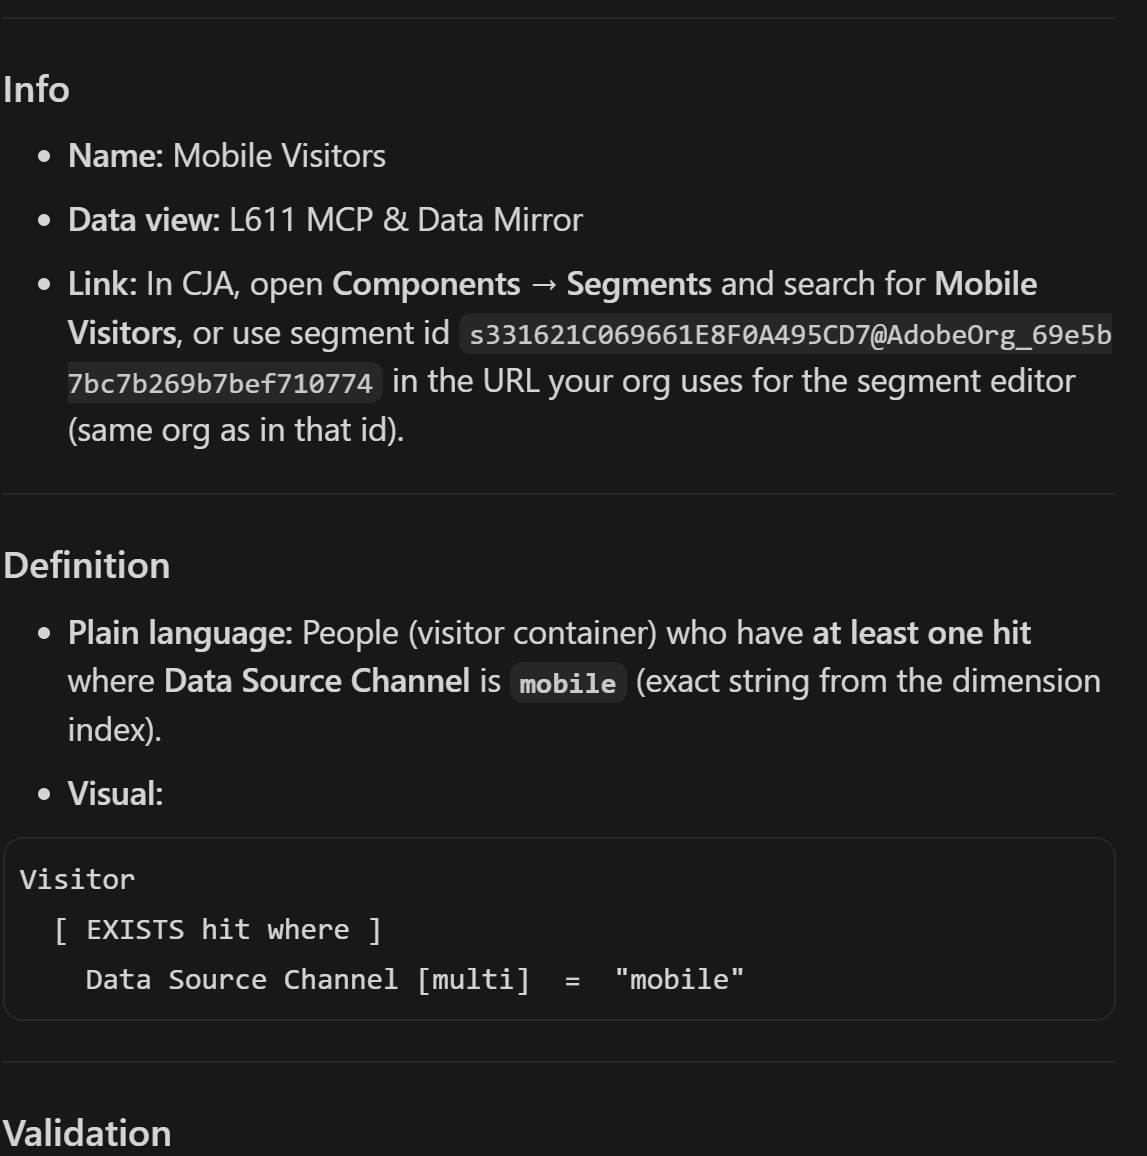
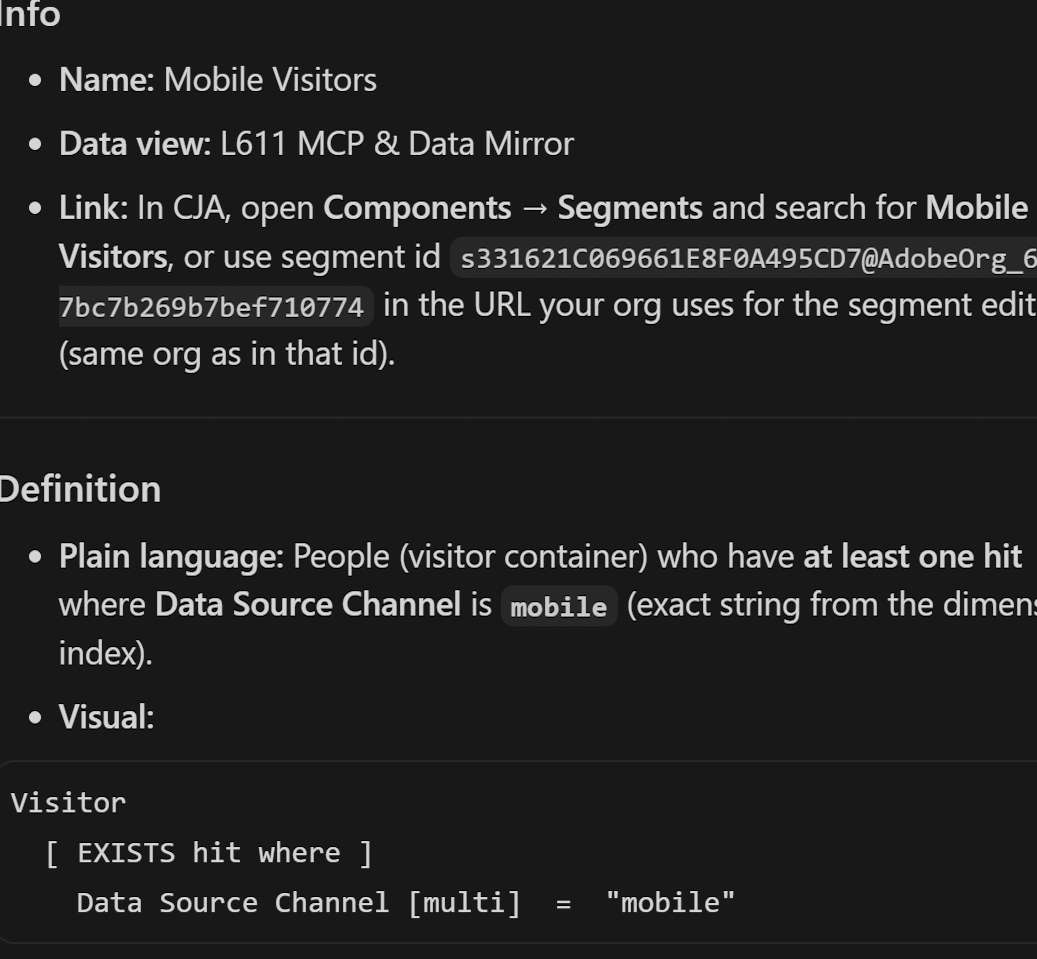
Update README and lesson 3 assets (screenshots).
Made-with: Cursor

diff --git a/README.md b/README.md
@@ -102,7 +102,7 @@ This should process quickly, taking only a few seconds. Instead of clicking thro
 
 <img src="assets\setup\Screenshot 2026-04-03 171218.png">
 
-3. Submit this prompt to open web authentication for CJA.
+2. Submit this prompt to open web authentication for CJA.
 
 ```
 Authenticate to CJA using mcp_auth.
@@ -112,11 +112,11 @@ As before, this should only take a few seconds. Cursor will hopefully make a cal
 
 <img width="478" height="207" src="/assets/setup/Screenshot 2026-04-03 145833.png" />
 
-4. On web auth, select *Experience Showcase* (if asked) and click OK.
+3. On web auth, select *Experience Showcase* (if asked) and click OK.
 
 <img src="assets\setup\Screenshot 2026-04-20 095100.png">
 
-5. On the following screen, click *Allow access*:
+4. On the following screen, click *Allow access*:
 
 <img width="415" height="581" src="assets/setup/Screenshot 2026-04-03 145533.png" />
 
@@ -557,9 +557,11 @@ Make a simple CJA project.
 
 <img width="786" height="199" src="assets/lesson-2/Screenshot 2026-04-03 173214.png" />
 
-> **Note:** This uses the `project builder` skill. A skill is used by the AI based on its headers (or you may invoke it explicitly). In our Cursor environment, if we use phrases like *make/build a CJA project* or reference `@cja-project-builder`, the agent will follow the skill to address the prompt.
+> **Note:** This uses the *project builder* skill. A skill is used by the AI based on its headers (or you may invoke it explicitly). In our Cursor environment, if we use phrases like *make/build a CJA project* or reference `@cja-project-builder`, the agent will follow the skill to address the prompt.
 
 The skill provides a basic project definition to the LLM, which creates the project and return its link.
+
+[Sample CJA project](https://experience.adobe.com/#/@experienceshowcase/platform/analytics/#/workspace/edit/69e567f7e0f5e2045efb2c09)
 
 4. Ask a data question:
 
@@ -583,6 +585,8 @@ Save this in a project and give me the link.
 
 <img width="1074" height="565" src="assets/lesson-2/Screenshot 2026-04-03 170356.png" />
 
+[Sample CJA result](https://experience.adobe.com/#/@experienceshowcase/platform/analytics/#/workspace/edit/69e5682d653dbd2327b0eade)
+
 6. Try a more interesting CJA project:
 
 ```
@@ -592,6 +596,8 @@ Create an e-commerce performance dashboard for the Luma retail data. Show revenu
 The agent responds with a proposed structure and builds it. It uses context from your skills, chat, common reporting and ecommerce knowledge, and existing components in CJA. Panels, visualizations, dimensions, metrics are all driven through that lens.
 
 Hopefully, your result takes only a minute or two. The timing and result will vary with AI. If something looks wrong or you want a change, you would continue the conversation. Even skills require iterations to reach your exact goal, sometimes.
+
+[Sample CJA result](https://experience.adobe.com/#/@experienceshowcase/platform/analytics/#/workspace/edit/69e568bee0f5e2045efb2c13)
 
 > **Tip:** Be specific in your prompts. Whenever possible, use clear time ranges ("last 30 days"), metric names ("orders", "revenue"), and dimensions ("product category") when you know them.
 
@@ -607,7 +613,7 @@ Build a survey for the top 9 dimensions in L611.
 
 Frequently supporting new customers and unknown data views, I wanted a quick survey of the data environment. Doing this for many dimensions becomes tedious or impossible to recreate. I have successfully run this type of skill for up to 60 dimensions. On the CJA definition gets "large", it is harder to manage in a single skill / agent definition.
 
-Here is a small [sample](https://experience.adobe.com/#/@experienceshowcase/platform/analytics/#/workspace/edit/69e57488c9a2b873047b2591) built to study the top 8 dimensions. Some have no data in the recent date range, so they are listed in a separate panel at the bottom.
+Here is a [sample](https://experience.adobe.com/#/@experienceshowcase/platform/analytics/#/workspace/edit/69e57488c9a2b873047b2591) built to study the top 8 dimensions. Some have no data in the recent date range, so they are listed in a separate panel at the bottom.
 
 <img src="assets\lesson-2\Screenshot 2026-04-20 113101.png">
 
@@ -642,11 +648,11 @@ By the end of this lesson you will be able to:
 
 ### 3.2 The *Segment builder* skill
 
-This skill augments the LLM and MCP context of segmentation with expertise from an experienced practitioner. `cja-project-builder` introduces business logic, common interpretations, translation to CJA segments, communication strategies, etc. It has been developed through material built by experienced practitioners.
+This skill augments the LLM and MCP context of segmentation with expertise from an experienced practitioner. `cja-segment-builder` introduces business logic, common interpretations, translation to CJA segments, communication strategies, etc. It has been developed through material built by experienced practitioners.
 
-This skill is activated any time we ask to create or update a segment.
+This skill is activated any time we ask to *create or update a segment*.
 
-> **Note:** Each segment creation also includes a summary with a *validation* step. This is not especially effective so far. I leave it in to show the aspiration of not only translating and honing a definition but going all the way through validation. It is a complex task that likely will become its own skill.
+> **Note:** Each segment creation also includes a summary with a *validation* step. This is not especially effective so far. I leave it in to show the aspiration of not only translating and honing a definition but going all the way through validation. It is a complex task that likely must become its own skill.
 
 
 ### 3.3 Simple segments
@@ -667,13 +673,18 @@ We add *demo* to our request to bypass the *do-not-duplicate* caution that the s
 
 <img src="assets\lesson-3\Screenshot 2026-04-20 013613.png">
 
+[Sample CJA segment](https://experience.adobe.com/#/@experienceshowcase/platform/analytics/#/components/segments/edit/s331621C069661E8F0A495CD7@AdobeOrg_69e5b7bc7b269b7bef710774)
+
 3. Create this segment:
 
 ```
    Create a demo segment for mobile visitors who viewed a product but didn't complete a purchase in the same session.
 ```
+<img src="assets\lesson-3\Screenshot 2026-04-20 120345.png">
 
 <img src="assets\lesson-3\Screenshot 2026-04-20 015134.png">
+
+[Sample CJA segment](https://experience.adobe.com/#/@experienceshowcase/platform/analytics/#/components/segments/edit/s331621C069661E8F0A495CD7@AdobeOrg_69e6787b017daf4e4ca63300)
 
 ### 3.4 Complex segments
 